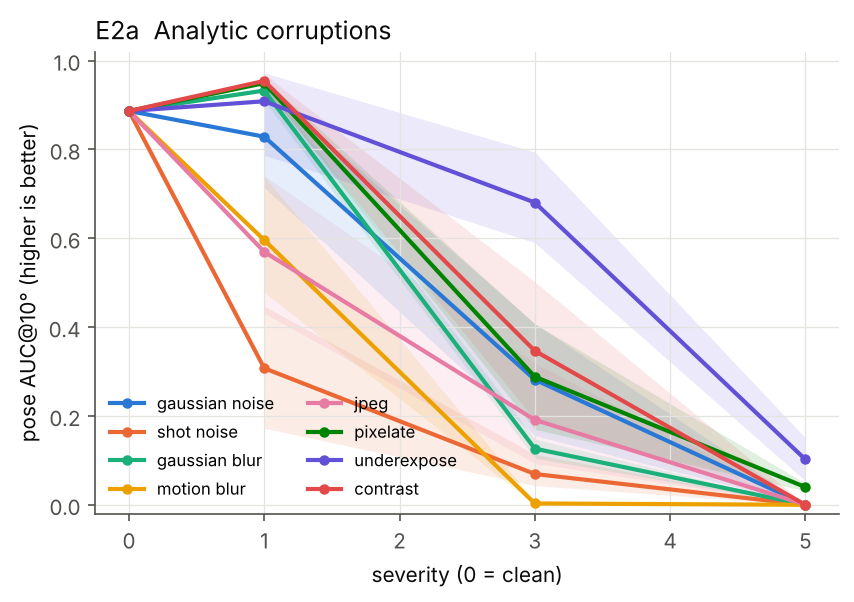
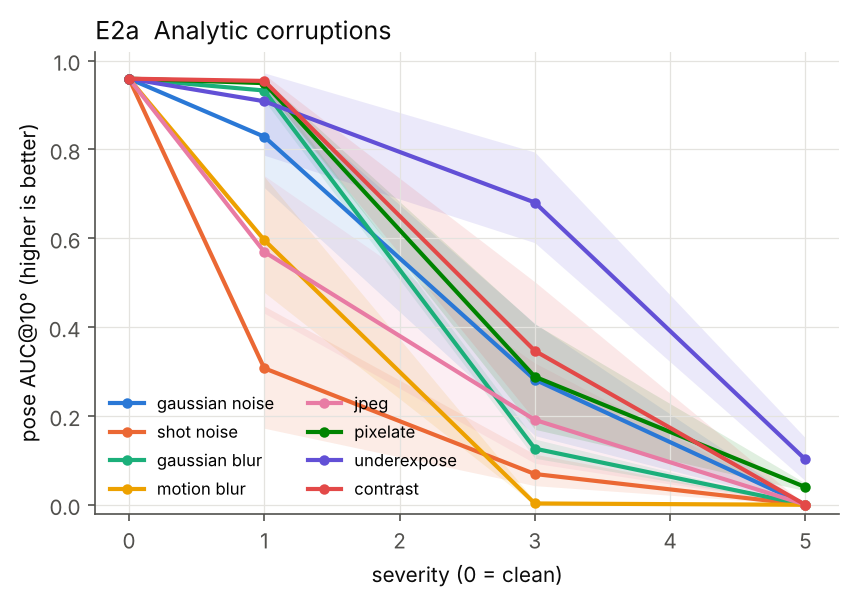
Draft report: results and conjectures per experiment
Claude-Session: https://claude.ai/code/session_01DwFUuxyVwkhujN2CBgQS9g

Changed region(s): [[0.1218, 0.1196, 0.3044, 0.5083], [0.274, 0.5083, 0.3044, 0.598]]

diff --git a/scripts/analyze.py b/scripts/analyze.py
@@ -114,11 +114,13 @@ def main():
     ctrl = load(raw, "e*__*.csv")
     clean_auc = None
     if not ctrl.empty:
-        clean = ctrl[ctrl.perturb == "clean"]
+        clean = ctrl[(ctrl.perturb == "clean") & (ctrl.features == "sift") & (ctrl.mapper == "incremental")]
         if len(clean):
             clean_auc = clean[METRIC].mean()
-            md.append(f"\n## Clean baseline\n\n{len(clean)} runs, AUC@10 = {clean_auc:.3f} (std {clean[METRIC].std():.3f}), "
+            md.append(f"\n## Clean baseline (SIFT + incremental)\n\n{len(clean)} runs, AUC@10 = {clean_auc:.3f} (std {clean[METRIC].std():.3f}), "
                       f"registration {clean.reg_frac.mean():.3f}.\n")
+            for sc, g in clean.groupby("scene"):
+                md.append(f"* {sc}: {len(g)} runs, AUC@10 {g[METRIC].mean():.3f} (min {g[METRIC].min():.3f})\n")
         for exp, title in [("e2_analytic", "E2a  Analytic corruptions"),
                            ("e2_generative", "E2b  Generative corruptions"),
                            ("e1_synth_weather", "E1s  Synthetic weather incl. desert")]:

diff --git a/REPORT.md b/REPORT.md
@@ -1,0 +1,174 @@
+# Where does Structure-from-Motion break? Results and conjectures
+
+*Draft. Numbers are from `results/summary.md` (auto-generated) and will be updated as the remaining GAN/LaMa runs finish.*
+
+**Setup in one paragraph.** We run COLMAP (Schönberger & Frahm, CVPR 2016) through COLMAP 4 / pycolmap. The pipeline is
+SIFT with 8192 features, exhaustive matching and incremental mapping. We corrupt the input photos in controlled ways
+and measure **pose AUC@10°** over *all* image pairs: an unregistered image counts as a failure. A score of 1 means every
+relative pose is within 10°. Scenes:
+* *Gerrard Hall* (50 images) and *South Building* (40 images), both at 1024 px, with ground truth from COLMAP's
+  full-resolution model.
+* *Boreas*: the same Toronto route driven in 15 different runs across 6 weather/light strata, with GNSS/INS ground
+  truth, evaluated at 4 fixed places.
+
+Every synthetic condition was run with 3 seeds on 2 scenes (n = 6); Boreas has 3 seeds per run and place. Brackets are
+95% bootstrap CIs. The clean baseline is AUC@10 = **0.959** (42 runs, std 0.047).
+
+---
+
+## E1 Weather and desert (TA ask #1)
+
+**Real weather (Boreas)**
+
+| condition | AUC@10 | registered |
+|---|---|---|
+| rain | 0.87 [0.75, 0.98] | 0.96 |
+| snow on the ground | 0.88 [0.77, 0.96] | 0.91 |
+| sunny | 0.74 [0.62, 0.84] | 0.76 |
+| snowfall | 0.65 [0.33, 0.98] | 0.67 |
+| overcast | 0.54 [0.38, 0.70] | 0.56 |
+| **night** | **0.02 [0.01, 0.04]** | 0.51 |
+
+* **Night is the only condition that breaks SfM.** Even when half of the night frames register, their poses are wrong.
+* **Daytime rain and snow do not hurt.** This agrees with Sattler et al. (2018).
+* **Variance between places is larger than between weathers.** One stretch of road (a fast, straight segment with
+  little parallax) fails often in any weather, which is why "sunny" scores below rain and snow.
+* *Conjecture:* for driving data, scene geometry and motion matter more than weather, except at night, where photon
+  noise, headlights and motion blur destroy the descriptors.
+
+**Synthetic weather on Gerrard Hall / South Building (AUC@10 at severity 1 / 3 / 5)**
+
+| condition | s1 | s3 | s5 |
+|---|---|---|---|
+| heat shimmer (desert) | 0.97 | 0.97 | 0.77 |
+| sandstorm (desert) | 0.97 | 0.76 | 0.20 |
+| harsh sun (desert) | 0.98 | 0.34 | 0.16 |
+| fog | 0.97 | 0.72 | 0.21 |
+| rain | 0.90 | 0.44 | 0.16 |
+| night | 0.85 | 0.37 | 0.005 |
+| snow | 0.55 | 0.22 | 0.00 |
+
+* **Desert:** heat shimmer is almost harmless until it is extreme. It bends pixels differently in each view, but by
+  less than SIFT's localisation noise. Harsh sun (clipped highlights and glare) is the worst desert effect, because
+  saturated regions have no gradients, so no keypoints form there.
+* **Snow falling in front of the camera is the worst weather.** The flakes create thousands of blob-like DoG
+  extrema that compete with real keypoints for the 8192-feature budget.
+
+**Synthetic vs real (the same synthetic effects applied to sunny Boreas runs)**
+* Synthetic fog and snow at full strength are *harsher* than any real Boreas condition (0.17 and 0.04, against
+  0.65 to 0.88 for real snow).
+* Synthetic night (0.33) is *milder* than real night (0.02).
+* Corruption benchmarks therefore mis-rank conditions. Real night is the hard case, and simulating it with an exposure
+  drop plus noise underestimates it.
+
+## E2 Escalating noise: analytic vs generative (TA ask #2)
+
+**Analytic (AUC@10 at s1 / s3 / s5):**
+
+| corruption | s1 | s3 | s5 |
+|---|---|---|---|
+| contrast | 0.95 | 0.35 | 0.00 |
+| pixelate | 0.95 | 0.29 | 0.04 |
+| Gaussian blur | 0.93 | 0.13 | 0.00 |
+| underexpose | 0.91 | 0.68 | 0.10 |
+| Gaussian noise | 0.83 | 0.28 | 0.00 |
+| motion blur | 0.60 | 0.003 | 0.00 |
+| JPEG | 0.57 | 0.19 | 0.00 |
+| shot (Poisson) noise | 0.31 | 0.07 | 0.00 |
+
+* **Two kinds of failure.**
+  - *Removal* (blur, pixelation, low contrast) mainly lowers registration: images simply drop out.
+  - *Additive* noise and JPEG blocking keep registration high but lower accuracy. Mild JPEG registers 99% of images
+    yet scores only 0.57, because block artefacts create repeatable but wrong keypoints at 8×8 block corners.
+* Motion blur is the most damaging single corruption. It is anisotropic, so it shifts keypoints along the blur
+  direction differently in each view.
+
+**Generative:** blackout control (holes filled with grey): 0.97 / 0.48 / 0.22. *LaMa inpainting and Real-ESRGAN
+regeneration with the same masks are still running.* Comparing them with blackout separates "information removed"
+from "plausible but wrong information added".
+
+## E3 Super-resolution before SfM (TA ask #3)
+
+| | ×4 down then up | ×8 down then up |
+|---|---|---|
+| low-res input as is | 0.02 | 0.00 |
+| bicubic | 0.31 | 0.03 |
+| bicubic + unsharp | 0.32 | 0.05 |
+| Real-ESRGAN (1 run so far) | 0.17 | running |
+
+* Classical upscaling helps a lot over the raw low-res input (0.02 → 0.31). The extra pixels give SIFT more octaves to
+  work with.
+* The GAN (Real-ESRGAN) is *worse* than bicubic: it hallucinates high-frequency texture independently in each view, so
+  the new keypoints don't repeat across views.
+* *Conjecture:* SR helps SfM only if it is multi-view consistent. Single-image generative SR, the usual
+  "enhancement" step, actively hurts.
+
+## E4 Tourist crowds (TA ask #4)
+
+| people per image | no mitigation | mask people | LaMa remove (1 run) |
+|---|---|---|---|
+| 2 | 0.94 | 0.97 | 0.97 |
+| 10 | 0.30 (reg 0.94) | 0.40 | 0.61 |
+| 40 | **0.04 (reg 0.89)** | 0.32 | 0.53 |
+
+* **Crowds cause silent failure.** Almost every image still registers, but the poses are wrong. *Conjecture:* people are richly
+  textured, so they win the feature budget. The COCO pool of cut-outs is finite, so the same person can appear in
+  several views and give consistent-looking but wrong matches.
+* Masking helps but throws away the occluded background. LaMa removal does better in the single run so far, and more
+  runs are pending.
+
+## E5 How many bad photos does it take? (extra)
+
+| fraction of photos corrupted | 10% | 25% | 50% | 100% |
+|---|---|---|---|---|
+| motion blur | 0.60 | 0.29 | 0.03 | 0.00 |
+| night | 0.80 | 0.68 | 0.35 | 0.09 |
+| crowds | 0.77 | 0.66 | 0.30 | 0.02 |
+
+(clean: 0.92)
+
+* **Bad photos poison good ones.** With 10% of photos motion-blurred, registration falls to 0.83, which is more than the
+  10% we blurred, and accuracy falls by a third.
+* *Conjecture:* in incremental SfM, a blurred image registered early with a poor pose triangulates bad points. Later
+  good images then register against those points. Filtering photos by quality before SfM is worth more than making
+  each step robust.
+
+## E6 Is the failure in SIFT or in incremental SfM? (extra)
+
+| condition | SIFT + incremental | SIFT + global (GLOMAP) |
+|---|---|---|
+| clean | 0.96 | 0.38 |
+| fog s5 | 0.20 | 0.41 |
+| Gaussian noise s4 | 0.09 | 0.27 |
+| night s3 | 0.37 | 0.39 |
+| crowds s4 | 0.11 | 0.01 |
+
+* GLOMAP fails on *clean* Gerrard Hall. It places 12 consecutive photos of one side of the building rotated by about
+  135°, a symmetric-facade ambiguity that global rotation averaging cannot resolve (`docs/notes_glomap_symmetry.md`).
+* Under fog and noise, though, global SfM degrades *less* than incremental. It uses all pairs at once instead of
+  chaining registrations, so one bad step can't cascade.
+* ALIKED + LightGlue (learned features): pending, runs on GPU.
+
+## E7 Cross-season re-localisation (extra)
+
+A map built from a sunny Boreas run, with 20 query frames from other conditions added at the same place:
+
+| query condition | registered into the sunny map | cross AUC@10 |
+|---|---|---|
+| sunny (another day) | 1.00 | 0.90 |
+| overcast | 0.97 | 0.90 |
+| snow on the ground | 0.97 | 0.88 |
+| rain | 0.88 | 0.83 |
+| snowfall | 0.87 | 0.76 |
+| **night** | **0.00** | **0.00** |
+
+* Seasonal appearance change, even snow cover, is fine for SIFT at the same viewpoint.
+* Night is a hard wall: not one of 240 night queries localised into a daytime map.
+
+---
+
+## Limitations
+* The two COLMAP scenes are subsampled (50 / 40 images, 1024 px), which makes them harder than the full sets. The
+  relative comparisons are what matter.
+* Boreas strata were labelled visually, and overcast/sunny partly mixes with how hard each place is.
+* Synthetic corruptions are models. E1-gap shows they can mis-rank real conditions.

diff --git a/README.md b/README.md
@@ -8,6 +8,7 @@ COLMAP was evaluated on clean internet photo collections. We test it in settings
 real bad weather, desert conditions, image corruptions, generative AI edits, super-resolved inputs, and
 crowds of tourists. For each setting we state in advance why it might fail and why it might still work.
 
+* **Write-up with results and conjectures: [`REPORT.md`](REPORT.md)**
 * Results: [`results/summary.md`](results/summary.md) (auto-generated) and figures in [`results/figures/`](results/figures)
 * Related work and hypotheses from the literature: [`docs/related_work.md`](docs/related_work.md)
 * Example perturbations: [`docs/perturbation_examples.jpg`](docs/perturbation_examples.jpg), Boreas conditions: [`docs/boreas_contact_sheet.jpg`](docs/boreas_contact_sheet.jpg)

diff --git a/results/summary.md b/results/summary.md
@@ -3,9 +3,13 @@
 Metric: pose AUC@10° over all input image pairs (unregistered = failure) and registration rate. Brackets: 95% bootstrap CI.
 
 
-## Clean baseline
+## Clean baseline (SIFT + incremental)
 
-48 runs, AUC@10 = 0.886 (std 0.208), registration 0.997.
+42 runs, AUC@10 = 0.959 (std 0.047), registration 0.997.
+
+* gerrard-hall: 21 runs, AUC@10 0.956 (min 0.670)
+
+* south-building: 21 runs, AUC@10 0.963 (min 0.905)
 
 
 ## E2a  Analytic corruptions
